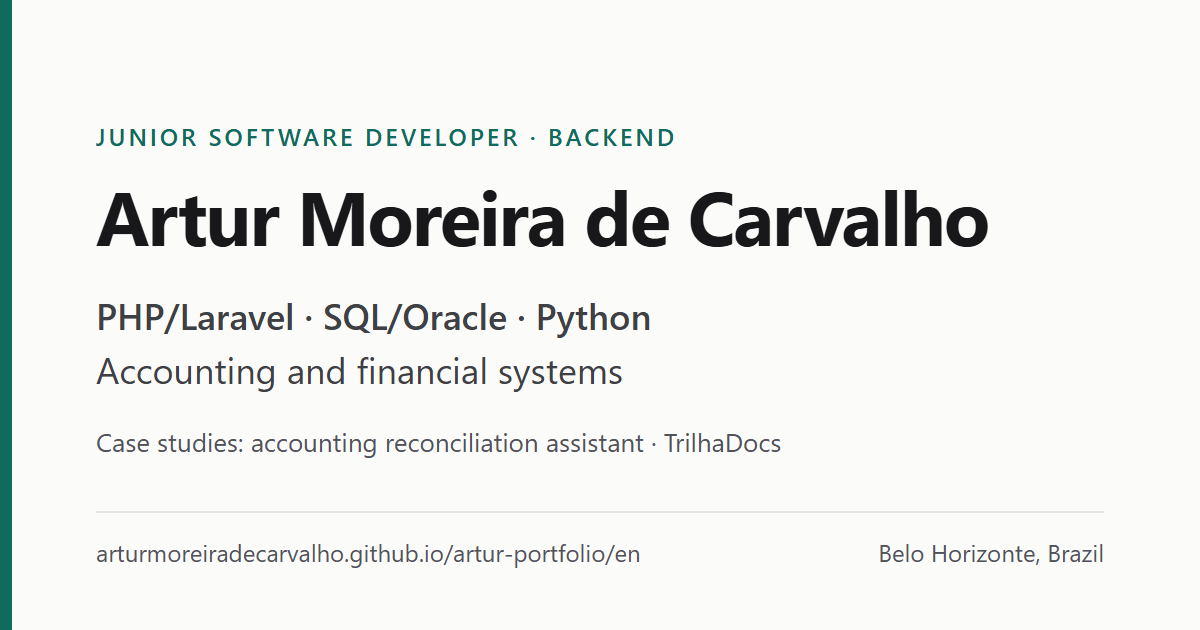
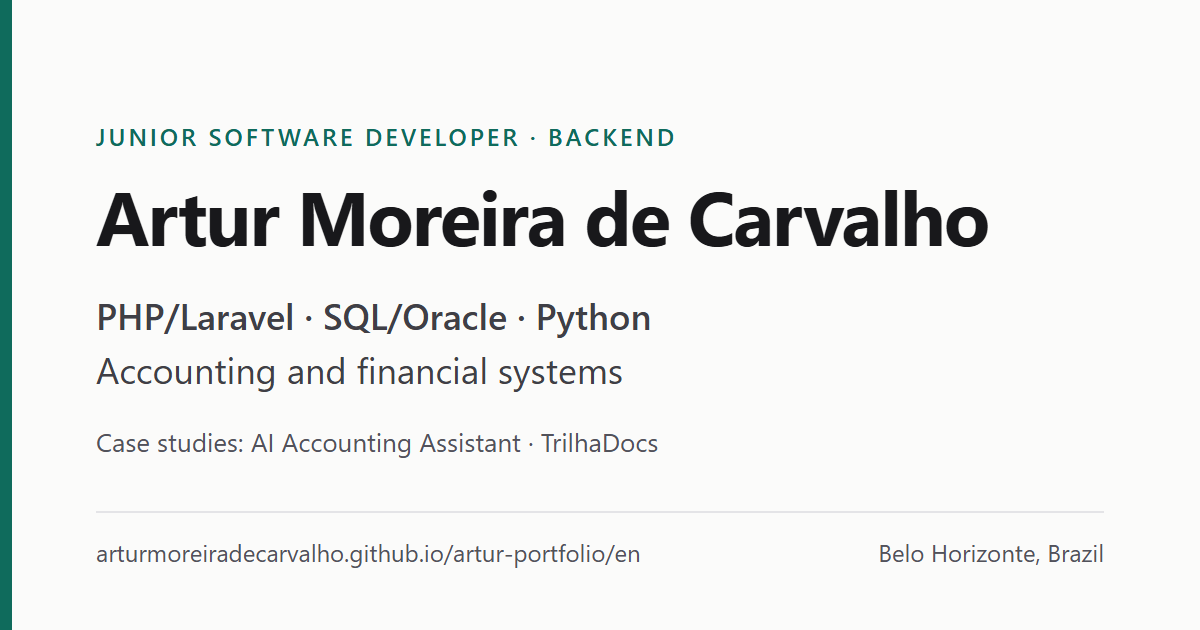
docs: use the public assistant name in the README and social images

Changed region(s): [[0.185, 0.6937, 0.6475, 0.7238]]

diff --git a/README.md b/README.md
@@ -9,7 +9,7 @@ Site estático do portfólio de Artur Moreira de Carvalho, desenvolvedor de soft
 
 - Hero com links para os cases, o currículo em PDF, LinkedIn e GitHub, e uma faixa com quatro fatos verificáveis.
 - Cases no mesmo roteiro (problema, contexto, contribuição, arquitetura, decisões, tecnologia e status), cada um com um diagrama em HTML/CSS:
-  - assistente de conciliação contábil (trabalho, código proprietário; o site não publica código, telas nem dados do produto);
+  - Assistente de Contabilidade com IA (trabalho, código proprietário; o site publica só uma demonstração em vídeo com dados fictícios, sem código nem dados reais);
   - TrilhaDocs (código público).
 - Experiência, tecnologias, projetos de estudo e contato (e-mail, LinkedIn, GitHub e currículo em PT e EN).
 
@@ -26,4 +26,4 @@ Sirva a pasta pai com qualquer servidor estático e abra `/artur-portfolio/` (a 
 
 ## Licença
 
-Código sob a licença [MIT](LICENSE). O assistente de conciliação contábil descrito no site é propriedade do Grupo PZM; a licença não se estende a marcas ou materiais de terceiros.
+Código sob a licença [MIT](LICENSE). O Assistente de Contabilidade com IA descrito no site é propriedade do Grupo PZM; a licença não se estende a marcas ou materiais de terceiros, nem ao vídeo de demonstração (música de Sascha Ende, CC BY 4.0; efeitos sonoros Kenney, CC0).
